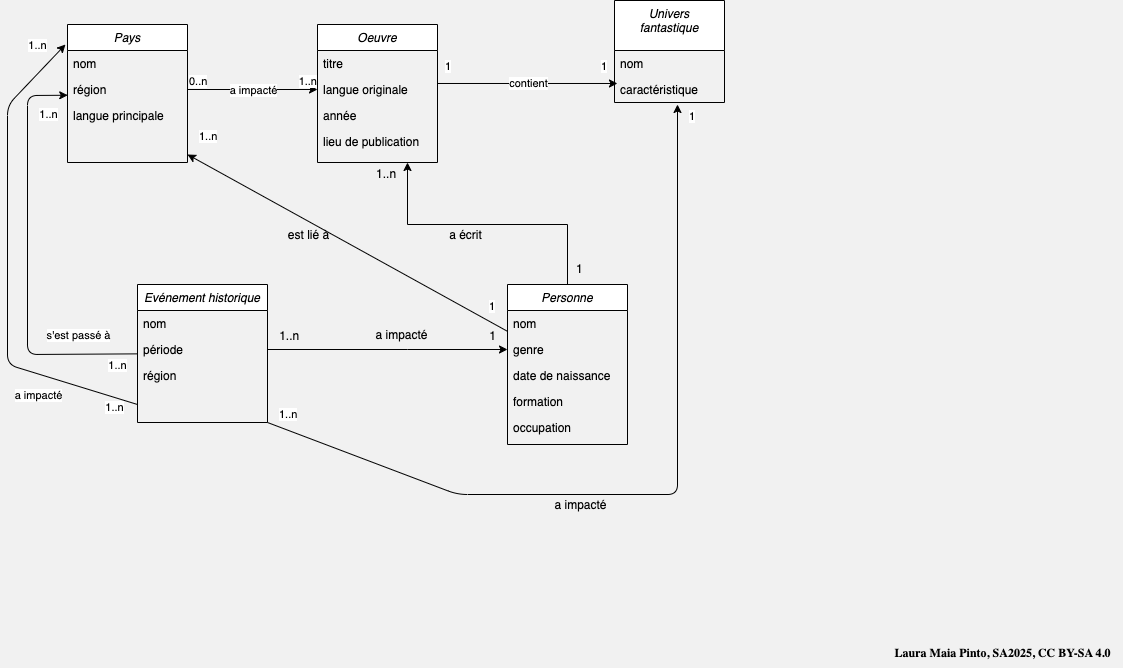
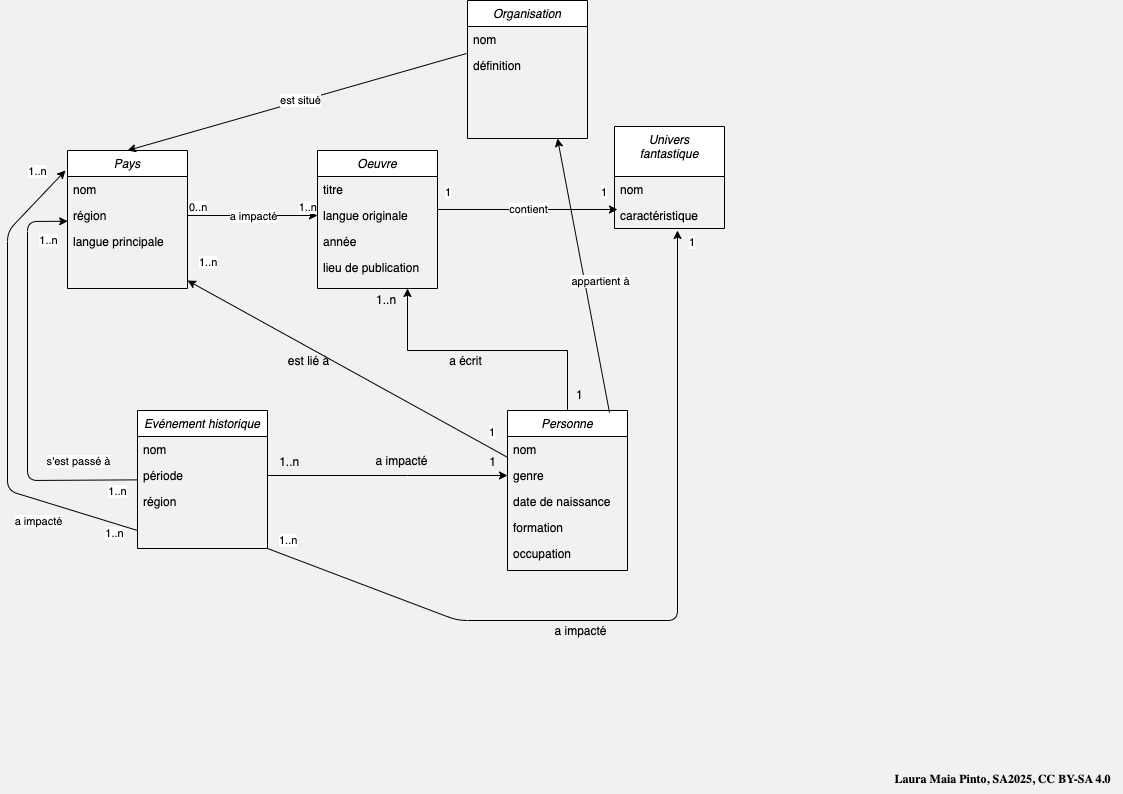
changements modèle coneptuel

diff --git a/documentation/modèle-conceptuel-commentaire.md b/documentation/modèle-conceptuel-commentaire.md
@@ -40,3 +40,11 @@ Pays dans lequel l'auteur a vécu et/ou qui a marqué l'auteur et a eu un impact
 ### Propriétés
 
 Nom, région, langue principale
+
+## Organisation
+
+Organisation dont une personne est membre. Une personne peut faire partie de plusieurs organisations.
+
+### 
+
+Nom, définition, lieu
